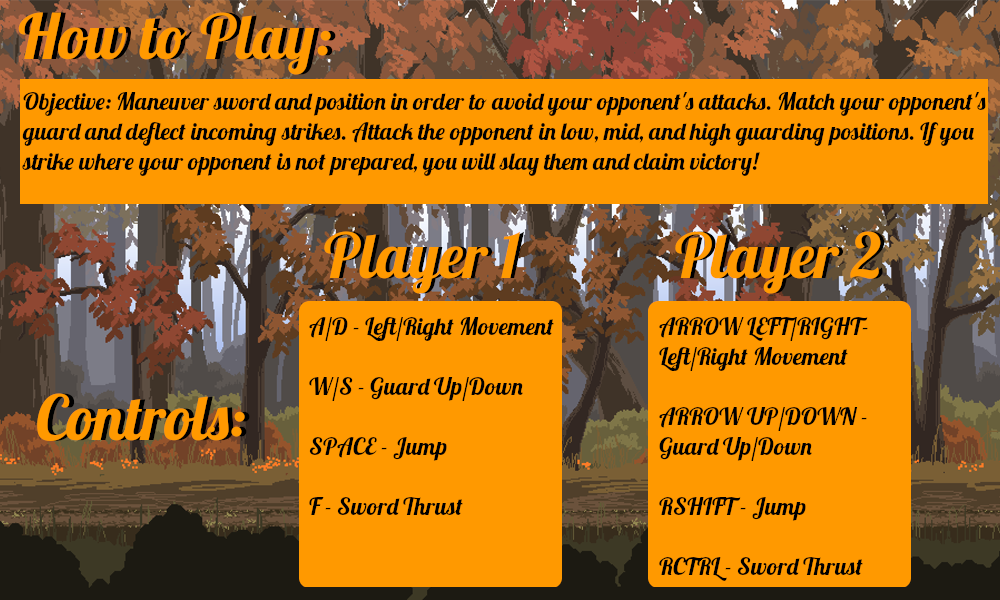
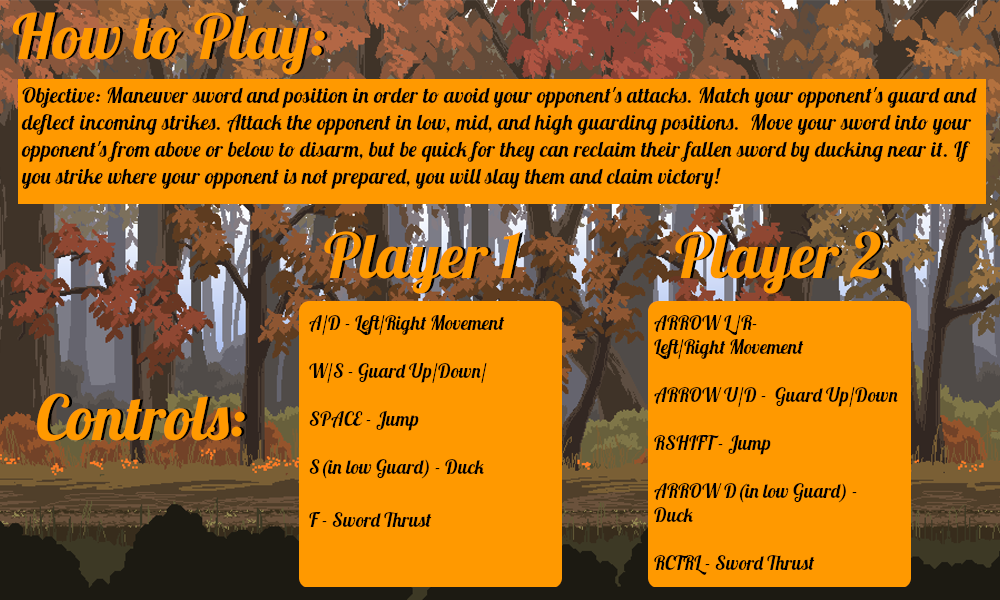
Credits splashscreen added, tutorial screen updated.

diff --git a/mainMenuFrame.py b/mainMenuFrame.py
@@ -443,7 +443,8 @@ def renderMenuButtons(menu_name, screen):
 
     elif  menu_name == "Credits":
         #blit credits screen here
-        drawButton(screen, "back_button", 140, 555)
+        screen.blit(gameFrame.getImage("Resources/Images/CreditsSplashScreen.png", images_dictionary), (0, 0))
+        drawButton(screen, "back_button", 130, 560)
 
     elif menu_name == "Pause":
         drawButton(screen, "play_button", 500, 300)
